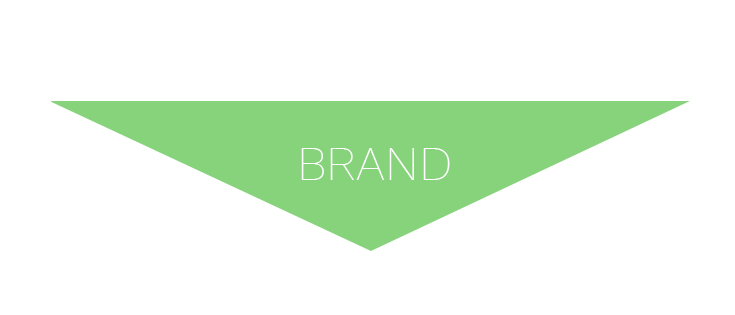
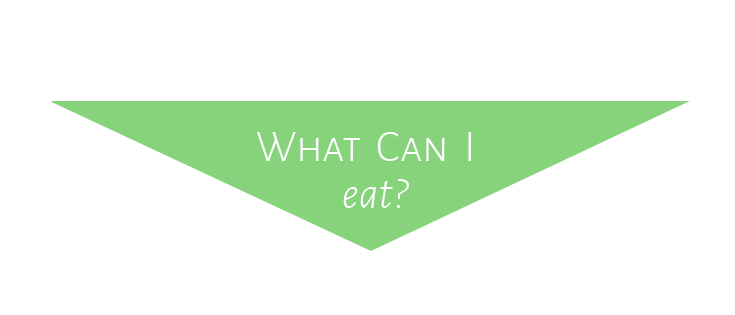
added branding and changed styling and text on about page

Changed region(s): [[0.3293, 0.4, 0.6585, 0.6571]]

diff --git a/public/app/views/about.html b/public/app/views/about.html
@@ -1,7 +1,7 @@
-<div class="col-sm-6 col-md-4 col-md-offset-4">
-      <a href="/signup" class="thumbnail about">
+<div class="col-sm-6 col-md-4 col-md-offset-4 about-text">
+    <!--   <a href="/signup" class="thumbnail about">
         <img src="app/img/whatcanieat.png" alt="main icon" class="abouticon">
-      </a>
+      </a> -->
 
    <h2 class="abouttext">Are you on a restrictive diet? Do you have multiple food allergies? Do you choose to exclude certain items from your diet? If so, then WHAT CAN I EAT? is perfect for you!</h2>  
    <h2 class="abouttext">WHAT CAN I EAT? is a database of food products categorized based on Paleo, Gluten-Free, and Dairy-Free diets. It's purpose is to assist consumers in locating products suitable for their dietary wants and needs.</h2>  

diff --git a/public/index.html b/public/index.html
@@ -10,6 +10,7 @@
 
     <!--Fonts -->
     <link href="https://fonts.googleapis.com/css?family=Alegreya+Sans:100,300" rel="stylesheet">
+    <link href="https://fonts.googleapis.com/css?family=Open+Sans+Condensed:300" rel="stylesheet">
 
     <!-- Stylesheets -->
     <link rel="stylesheet" href="https://maxcdn.bootstrapcdn.com/bootstrap/3.3.5/css/bootstrap.min.css">

diff --git a/public/app/css/style.css b/public/app/css/style.css
@@ -440,7 +440,15 @@ legend {
   width: 600px;
   text-align: center;
   margin-left: -110px;
+  font-family: 'Open Sans Condensed';
+  font-weight: 300;
+  line-height: 5rem;
 }
+
+.about-text {
+  margin-top: 200px;
+}
+
 .about{
   margin-left: 40px;
   margin-bottom: -10px;
